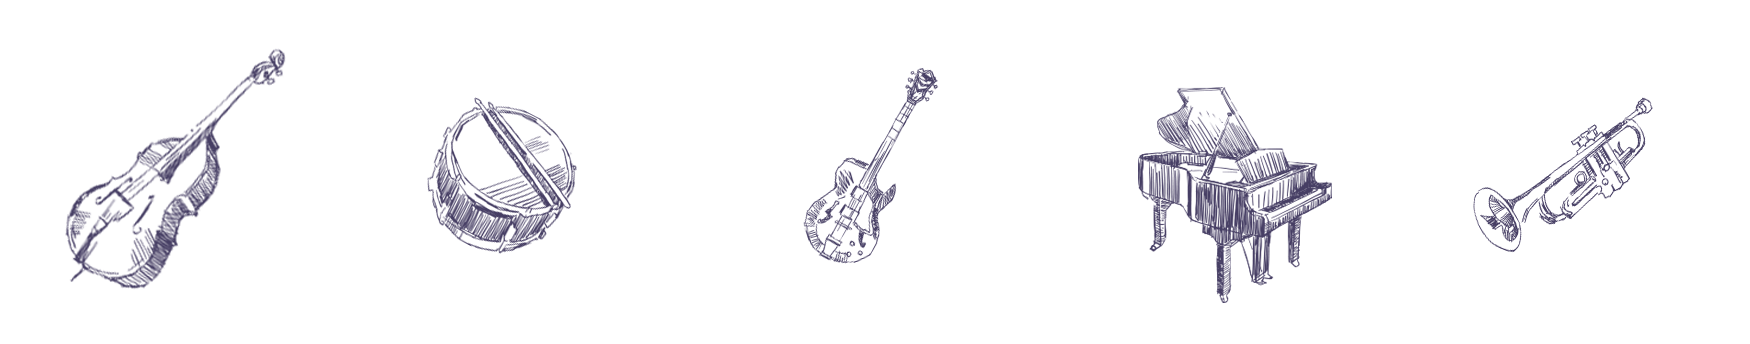
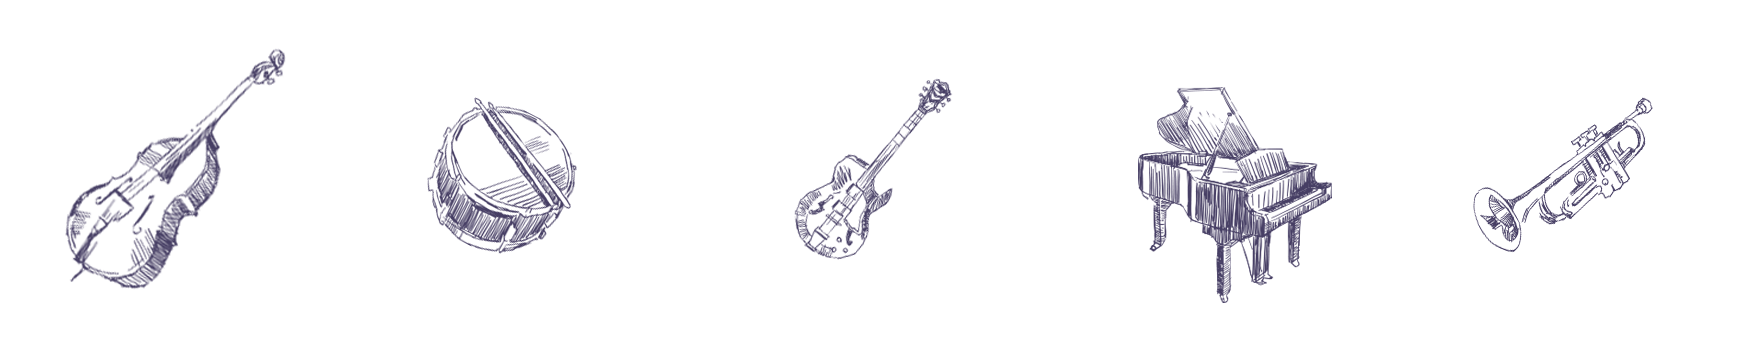
more alpha bug fixes

Changed region(s): [[0.432, 0.2035, 0.5554, 0.7849]]

diff --git a/app/css/application.css b/app/css/application.css
@@ -2448,7 +2448,7 @@ body {
   -ms-transform: translateX(-50%);
   transform: translateX(-50%);
   top: 30%;
-  background: rgba(0, 0, 0, 0.5);
+  background: rgba(0, 0, 0, 0.6);
   -moz-border-radius: 20px;
   -webkit-border-radius: 20px;
   border-radius: 20px;
@@ -2796,6 +2796,8 @@ body {
     right: 50px;
     top: 100px;
     position: absolute; }
+  #cr-mediaplans-s3.hat-rack-C .reveal-items-buttons-container {
+    background: url(../assets/images/102/pt-044/hat-rack-C.png) no-repeat; }
   #cr-mediaplans-s3 .reveal-item {
     cursor: pointer;
     position: absolute;
@@ -3749,13 +3751,13 @@ body {
     #hs-049-view .details-container .detail-set .detail-info-button {
       position: absolute;
       background: url(../assets/images/103/hotspots-049/detail-info-button.png);
-      width: 35px;
-      height: 35px;
+      width: 40px;
+      height: 40px;
       cursor: pointer; }
       #hs-049-view .details-container .detail-set .detail-info-button:hover {
-        background-position: 0px -35px; }
+        background-position: 0px -40px; }
       #hs-049-view .details-container .detail-set .detail-info-button.completed, #hs-049-view .details-container .detail-set .detail-info-button.selected {
-        background-position: 0px -70px; }
+        background-position: 0px -80px; }
   #hs-049-view .details-container .detail-highlight {
     position: absolute;
     background: rgba(255, 255, 0, 0.5);
@@ -3783,51 +3785,7 @@ body {
     #hs-049-view .details-container .tooltip.visible .close-x-light-button {
       display: block; }
   #hs-049-view .details-container .back-button {
-    position: absolute;
-    font-size: 1.6em;
-    font-family: "Avenir", sans-serif;
-    line-height: 120%;
-    padding: 5px 10px;
-    margin: 0px;
-    font-weight: 500;
-    background: #57a0c4;
-    /* Old browsers */
-    background: -moz-linear-gradient(top, #57a0c4 0%, #5195b7 100%);
-    /* FF3.6+ */
-    background: -webkit-gradient(linear, left top, left bottom, color-stop(0%, #57a0c4), color-stop(100%, #5195b7));
-    /* Chrome,Safari4+ */
-    background: -webkit-linear-gradient(top, #57a0c4 0%, #5195b7 100%);
-    /* Chrome10+,Safari5.1+ */
-    background: -o-linear-gradient(top, #57a0c4 0%, #5195b7 100%);
-    /* Opera 11.10+ */
-    background: -ms-linear-gradient(top, #57a0c4 0%, #5195b7 100%);
-    /* IE10+ */
-    background: linear-gradient(to bottom, #57a0c4 0%, #5195b7 100%);
-    /* W3C */
-    -moz-border-radius: 6px;
-    -webkit-border-radius: 6px;
-    border-radius: 6px;
-    border: 1px solid #333;
-    color: white;
-    cursor: pointer;
-    bottom: 25px;
-    right: 25px;
-    margin: 0 2px; }
-    #hs-049-view .details-container .back-button:hover {
-      background: #3c87ac;
-      /* Old browsers */
-      background: -moz-linear-gradient(top, #3c87ac 0%, #3e7997 100%);
-      /* FF3.6+ */
-      background: -webkit-gradient(linear, left top, left bottom, color-stop(0%, #3c87ac), color-stop(100%, #3e7997));
-      /* Chrome,Safari4+ */
-      background: -webkit-linear-gradient(top, #3c87ac 0%, #3e7997 100%);
-      /* Chrome10+,Safari5.1+ */
-      background: -o-linear-gradient(top, #3c87ac 0%, #3e7997 100%);
-      /* Opera 11.10+ */
-      background: -ms-linear-gradient(top, #3c87ac 0%, #3e7997 100%);
-      /* IE10+ */
-      background: linear-gradient(to bottom, #3c87ac 0%, #3e7997 100%);
-      /* W3C */ }
+    min-width: 80px; }
 
 #match-050-view .submit-button {
   width: 230px; }

diff --git a/app/js/ui/pageturner_textbox.js b/app/js/ui/pageturner_textbox.js
@@ -36,14 +36,18 @@ define( ["marionette", "text!templates/ui/pageturner_textbox.html"], function (M
             var enter_down = new TimelineMax({onComplete:this.onTweenComplete, onCompleteScope:this, onCompleteParams:['enter_down']});
 
             enter_down.add(TweenMax.set(this.ui.textbox, {
-                background: 'rgba(0,0,0,0)'
+                background: 'rgba(0,0,0,0.0)'
             }));
 
-            enter_down.add(TweenMax.from(this.ui.body, 0.5, {
-                autoAlpha: 0.0,
-                top: '+=40',
-                ease: Power3.easeIn
-            }));
+            enter_down.add([TweenMax.from(this.ui.body, 0.5, {
+                    autoAlpha: 0.0,
+                    top: '+=40',
+                    ease: Power3.easeIn
+                }),
+                TweenMax.to(this.ui.textbox, 0.4, {
+                    background: 'rgba(0,0,0,0.6)'
+                })]
+            );
 
             /*enter_down.add(TweenMax.from(this.ui.ornament, 0.38, {
                 left: '700px',
@@ -62,9 +66,9 @@ define( ["marionette", "text!templates/ui/pageturner_textbox.html"], function (M
                 autoAlpha: 0.0
             }), '-=.2');
 
-            enter_down.add(TweenMax.to(this.ui.textbox, 1.0, {
-                background: 'rgba(0,0,0,0.5)'
-            }));
+            /*enter_down.add(TweenMax.to(this.ui.textbox, 0.4, {
+                background: 'rgba(0,0,0,0.6)'
+            }));*/
 
             tl.add(enter_down, 'enter_down');
 
@@ -87,12 +91,13 @@ define( ["marionette", "text!templates/ui/pageturner_textbox.html"], function (M
             enter_up.add(TweenMax.to(this.ui.textbox, 0.5, {
                 top: '+=50px',
                 autoAlpha: 1.0,
+                background: 'rgba(0,0,0,0.6)',
                 ease:Power1.easeOut
             }));
 
-            enter_up.add(TweenMax.to(this.ui.textbox, 1.0, {
-                background: 'rgba(0,0,0,0.5)'
-            }));
+            /*enter_up.add(TweenMax.to(this.ui.textbox, 0.4, {
+                background: 'rgba(0,0,0,0.6)'
+            }));*/
 
             tl.add(enter_up, 'enter_up');
 

diff --git a/app/scss/interactions/_hotspots-049.scss b/app/scss/interactions/_hotspots-049.scss
@@ -132,15 +132,15 @@
       & .detail-info-button {
         position: absolute;
         background: url(../assets/images/103/hotspots-049/detail-info-button.png);
-        width: 35px;
-        height: 35px;
+        width: 40px;
+        height: 40px;
         cursor: pointer;
         &:hover {
-          background-position: 0px -35px;
+          background-position: 0px -40px;
         }
 
         &.completed, &.selected {
-          background-position: 0px -70px;
+          background-position: 0px -80px;
         }
       }
     }
@@ -186,24 +186,7 @@
     }
 
     & .back-button {
-      position: absolute;
-      font-size: 1.6em;
-      font-family: $font-body;
-      line-height:120%;
-      padding: 5px 10px;
-      margin: 0px;
-      font-weight: 500;
-      @include gradient(#57a0c4, #5195b7);
-      @include border-radius(6px);
-      border: 1px solid #333;
-      color: white;
-      cursor: pointer;
-      bottom: 25px;
-      right: 25px;
-      margin: 0 2px;
-      &:hover {
-        @include gradient(darken(#57a0c4, 10%), darken(#5195b7, 10%));
-      }
+      min-width: 80px;
     }
   }
 }

diff --git a/app/js/interactions/page_turner/mainview.js b/app/js/interactions/page_turner/mainview.js
@@ -466,6 +466,8 @@ define(["marionette", "app/vent", "text!templates/interactions/page_turner/mainv
                 this.currentInteraction = this.interactions[name].interaction;
                 if (this.currentInteraction.isComplete()) {
                     this.enableScroll();
+                } else {
+                    TweenMax.delayedCall(0.5, this.updateNextPrev, [false, true], this)
                 }
             }
 
@@ -476,7 +478,7 @@ define(["marionette", "app/vent", "text!templates/interactions/page_turner/mainv
             this.goToNext();
         },
 
-        updateNextPrev: function (enabled) {
+        updateNextPrev: function (enabled, disableNext) {
             var newIndex;
             if (enabled) {
 
@@ -498,6 +500,10 @@ define(["marionette", "app/vent", "text!templates/interactions/page_turner/mainv
                 }
 
 
+            } else if (!enabled && disableNext) {
+                //disable next
+                this.ui.nextButton.addClass('disabled');
+                this.ui.prevButton.removeClass('disabled');
             } else {
                 this.ui.nextButton.addClass('disabled');
                 this.ui.prevButton.addClass('disabled');

diff --git a/app/scss/interactions/_pageturner-mediaplans-44.scss b/app/scss/interactions/_pageturner-mediaplans-44.scss
@@ -16,11 +16,16 @@
 
   & .reveal-items-buttons-container {
     background: url(../assets/images/102/pt-044/hat-rack.png) no-repeat;
+
     height: 1000px;
     width: 385px;
     right: 50px;
     top: 100px;
     position: absolute;
+  }
+
+  &.hat-rack-C .reveal-items-buttons-container {
+    background: url(../assets/images/102/pt-044/hat-rack-C.png) no-repeat;
   }
 
   & .reveal-item {

diff --git a/app/js/interactions/page_turner/min/mainview-min.js b/app/js/interactions/page_turner/min/mainview-min.js
@@ -1,1 +1,1 @@
-define(["marionette","app/vent","text!templates/interactions/page_turner/mainview.html","ui/pageturner_textbox"],function(e,t,i,n){return e.ItemView.extend({template:i,ui:{container:"#pt-container",contentContainer:"#pt-content-container",mainView:"#pt-main-view",colorOverlay:"#pt-color-overlay",progressButton:".pt-progress-button",nextButton:"#pt-progress-next-button",prevButton:"#pt-progress-prev-button",continueButton:".continue-button",scrollBox:".pt-scroll",revealItems:".reveal-item"},events:{"click @ui.progressButton.enabled.groupEnabled":"onProgressClicked","click @ui.revealItems":"onRevealItemClicked","click @ui.continueButton":"onButtonClicked","click @ui.nextButton":"onNextButtonClicked","click @ui.prevButton":"onPrevButtonClicked"},index:0,scene_ar:[],tweens:{},tweenList:[],currentInteraction:null,tweenOffset:0,scrollTop:0,minScroll:10,scrollDirection:1,scrollEnabled:!1,$textBox:null,textCallbackEnabled:!1,$win:null,$body:null,lastScrollTop:0,initialize:function(e){this.model=e.model,this.interactions=e.interactions,this.soundPlayer=e.soundPlayer,this.tweens={},this.scrollTop=0,this.index=0,this.tweenOffset=.5,this.scrollDirection=1,this.scrollEnabled=!1,this.loopPlaying=!0,this.intervalID},onRender:function(){trace("Pageturner: onRender()",0),this.scene_ar=_.pluck(this.model.get("scenes"),"id"),this.$el.hide(),this.constructPage(),this.$win=$(window),this.$body=$("body"),this.$body.css("overflow","visible"),this.$win.on("resize",$.proxy(this.onResize,this)),1==this.scene_ar.length&&this.$(".pt-progress-container").hide(),this.ui.continueButton.hide()},constructPage:function(){var e=this.model.get("elements"),t,i=this.model.get("scenes"),s,o,r,l,a,c,h,d=!1;this.$textBox=new n({completeCallback:this.onTextTweenComplete,callbackScope:this}),this.ui.contentContainer.append(this.$textBox.render().el),_.each(e,function(e,i){t=$(e.el),t.attr("id",e.id),t.attr("class","pt-element "+e["class"]),TweenMax.set(t,e.props),void 0!=e.prepareLine&&TweenMax.to(t.find(e.prepareLine),0,{drawSVG:0}),this.ui.contentContainer.append(t)}.bind(this)),_.each(i,function(e,t){if(void 0!=e.interaction){var i=e.interaction.name,n=this.interactions[i].template,s=new Backbone.Model(e.interaction),o=this.interactions[i].module,r=this.$("#"+e.interaction.id),l;l=new o({template:n,model:s,soundPlayer:this.soundPlayer}),this.interactions[i].interaction=l,this.listenTo(l,"reveal-item:clicked",this.onRevealItemClicked),r.append(l.render().el)}}.bind(this)),setTimeout(function(){_.each(i,function(e){if(this.tweens[e.id]={complete:!1},void 0!=e.enter){for(h=0,d=!1,a=e.id+"_enter",s=new TimelineMax({paused:!0,onComplete:this.onEnterComplete,onCompleteParams:["enterComplete..."+a],onCompleteScope:this,onReverseComplete:this.onLeaveComplete,onReverseCompleteParams:["reverseLeaveComplete..."+a],onReverseCompleteScope:this}),c=0;c<e.enter.length;c++)r=e.enter[c],r.ease=void 0!=r.ease?EaseLookup.find(r.ease):Power2.easeIn,r.duration=void 0!=r.duration?r.duration:.3,l=void 0==r.staggerOffset?TweenMax[r.type]("#"+r.id,r.duration,r.props):TweenMax[r.type]("#"+r.id,r.duration,r.props,r.staggerOffset),s.add(l,r.startTime+this.tweenOffset),h+=r.duration,void 0!=r.props.repeat&&r.props.repeat>1&&(d=!0);d&&(trace("tlDuration: "+h,2),s.onComplete=null,s.addCallback(this.onEnterComplete,h,["enterCompleteTIMED..."+a],this)),s.totalDuration()>0&&(this.tweens[e.id].enter=s,this.tweenList.push(s))}if(void 0!=e.leave){for(d=!1,h=0,a=e.id+"_leave",o=new TimelineMax({paused:!0,onComplete:this.onLeaveComplete,onCompleteParams:["leaveComplete..."+a],onCompleteScope:this,onReverseComplete:this.onEnterComplete,onReverseCompleteParams:["reverseEnterComplete..."+a],onReverseCompleteScope:this}),c=0;c<e.leave.length;c++)r=e.leave[c],r.ease=void 0!=r.ease?EaseLookup.find(r.ease):Power2.easeIn,r.duration=void 0!=r.duration?r.duration:.3,l=void 0==r.staggerOffset?TweenMax[r.type]("#"+r.id,r.duration,r.props):TweenMax[r.type]("#"+r.id,r.duration,r.props,r.staggerOffset),o.add(l,r.startTime),h+=r.duration,void 0!=r.props.repeat&&r.props.repeat>1&&(d=!0);d&&(o.onComplete=null,o.addCallback(this.onLeaveComplete,h,["leaveCompleteTIMED..."+a],this)),o.totalDuration()>0&&(this.tweens[e.id].leave=o,this.tweenList.push(o))}}.bind(this));var e=this.$win.height(),t=e*(i.length+1);this.ui.scrollBox.height(t+e),this.ui.contentContainer.append(this.ui.continueButton),this.$el.fadeIn(200,function(){this.startInteraction(0)}.bind(this))}.bind(this),100)},startInteraction:function(e){this.index=e,this.scrollDirection=1,this.scrollEnabled=!1,this.renderScene("enter"),1==this.scene_ar.length&&this.buttonEnable(this.ui.continueButton,!0),this.lastScrollTop=0,this.ui.prevButton.addClass("disabled"),this.intervalID=setInterval(function(){clearInterval(this.intervalID),this.loopPlaying=!1,this.trigger("mainview:activity-start")}.bind(this),5e3)},detectDirection:function(){var e=window.pageYOffset,t,i;return i=Math.abs(e-this.lastScrollTop),trace("scrollDistance: "+i,5),i<this.minScroll?0:(t=e>this.lastScrollTop?1:-1,this.lastScrollTop=e,t)},onResize:function(){var e=this.$win.height()*this.index*-1;this.ui.scrollBox.css({top:e})},enableScroll:function(){if(!this.scrollEnabled){this.scrollEnabled=!0,this.$win.on("scroll",$.proxy(this.bodyScroll,this));var e=this.$win.height()*this.index*-1;this.ui.scrollBox.css({top:e}),this.$body.css("overflow","visible");try{this.ui.progressButton.addClass("groupEnabled")}catch(t){this.$(this.ui.progressButton).addClass("groupEnabled")}this.updateNextPrev(!0),trace("enableScroll",2)}},disableScroll:function(){if(this.scrollEnabled){this.scrollEnabled=!1,this.$win.off("scroll",$.proxy(this.bodyScroll,this)),this.$body.css("overflow","hidden");try{this.ui.progressButton.removeClass("groupEnabled")}catch(e){this.$(this.ui.progressButton).removeClass("groupEnabled")}this.updateNextPrev(!1),trace("disableScroll",2)}},renderScene:function(e){var t=this.scene_ar[this.index],i="",n=this.tweens[t],s=this.model.get("scenes")[this.index],o=s.bg_color,r=s.text["class"]||"align-left",l=s.text.css||null;if(TweenMax.to(this.ui.colorOverlay,.5,{delay:.2,backgroundColor:o,ease:Linear.easeNone}),"enter"===e){try{this.ui.progressButton.removeClass("active").addClass("enabled")}catch(a){this.$(this.ui.progressButton).removeClass("active").addClass("enabled")}this.$("#progress"+this.index).addClass("completed active").removeClass("enabled"),this.$textBox.setText(s.text),this.$textBox.setClass(r),this.scrollDirection>0?(this.$textBox.tl.play("enter_down"),void 0!=n.enter?(n.enter.restart(),trace("enter_down_normal",4)):this.textCallbackEnabled=!0):(this.$textBox.tl.play("enter_up"),void 0!=s.enter_up&&"reverse"==s.enter_up?void 0!=n.leave&&(trace("enter_up_reverse (reverse leave tween)",4),n.leave.reverse(n.leave.duration())):void 0!=s.enter?(trace("enter_up_normal (restart enter tween)",4),trace(TweenMax.getTweensOf(n.enter),4),n.enter.restart()):this.textCallbackEnabled=!0)}else void 0!=n.enter&&n.enter.isActive()&&(n.enter.stop(),trace("Killed the bugger!",4)),this.scrollDirection>0?(this.$textBox.tl.play("leave_down"),void 0!=n.leave?(n.leave.restart(),trace("leave_down_normal",4)):this.textCallbackEnabled=!0):(this.$textBox.tl.play("leave_up"),void 0!=s.leave_up&&"reverse"==s.leave_up?void 0!=n.enter&&(trace("leave_up_reversed (reverse enter tween)",4),n.enter.reverse(n.enter.duration())):void 0!=s.leave?(trace("leave_up_normal (restart leave tween)",4),n.leave.restart()):this.textCallbackEnabled=!0)},onTextTweenComplete:function(e){trace("onTextTweenComplete: "+e,2),this.textCallbackEnabled&&(this.textCallbackEnabled=!1,trace("Funky Going On",4),"enter_down"===e||"enter_up"===e?this.onEnterComplete():this.onLeaveComplete())},onEnterComplete:function(e){trace("ON ENTER COMPLETE -> "+e,2);var t=this.scene_ar[this.index],i="",n=this.tweens[t],s=this.model.get("scenes")[this.index];if(n.complete=!0,void 0==s.interaction)TweenMax.delayedCall(.5,this.enableScroll,[],this);else{var o=s.interaction.name;this.currentInteraction=this.interactions[o].interaction,this.currentInteraction.isComplete()&&this.enableScroll()}},onLeaveComplete:function(e){trace("ON LEAVE COMPLETE -> "+e,2),this.goToNext()},updateNextPrev:function(e){var t;e?(t=this.index+this.scrollDirection,0>t?(this.ui.nextButton.removeClass("disabled"),this.ui.prevButton.addClass("disabled")):t==this.scene_ar.length?(this.ui.nextButton.addClass("disabled"),this.ui.prevButton.removeClass("disabled")):(this.ui.nextButton.removeClass("disabled"),this.ui.prevButton.removeClass("disabled"))):(this.ui.nextButton.addClass("disabled"),this.ui.prevButton.addClass("disabled"))},onNextButtonClicked:function(){this.scrollDirection=1,this.prerenderScene(this.index+1),t.trigger("play_sfx","pageturnerbutton_click")},onPrevButtonClicked:function(){this.scrollDirection=-1,this.prerenderScene(this.index-1),t.trigger("play_sfx","pageturnerbutton_click")},bodyScroll:function(){var e,t=this.detectDirection();0!=t&&(this.scrollDirection=t,e=this.index+this.scrollDirection,this.prerenderScene(e))},prerenderScene:function(e){return 0>e?void this.enableScroll():e>this.scene_ar.length-1?void this.enableScroll():(e==this.scene_ar.length-1?(nextScene=this.model.get("scenes")[e],void 0==nextScene.interaction&&(this.ui.continueButton.show(),this.buttonEnable(this.ui.continueButton,!0))):this.ui.continueButton.fadeOut(),this.currentInteraction&&(this.currentInteraction.sceneComplete(),this.currentInteraction=null),this.disableScroll(),this.renderScene("leave"),void(this.loopPlaying&&(clearInterval(this.intervalID),this.trigger("mainview:activity-start"))))},buttonEnable:function(e,t){t?(e.show(),e.addClass("enabled button-reveal").removeClass("disabled"),setTimeout(function(){e.removeClass("button-reveal")}.bind(this),1600)):e.removeClass("enabled").addClass("disabled")},goToNext:function(){var e=this.index+this.scrollDirection;return 0>e||e>this.scene_ar.length-1?void this.enableScroll():(this.index=e,t.trigger("update-jira",{item:"scene: "+this.index}),void this.goTo(this.index))},goTo:function(e){var t=this.$win.height()*this.index*-1;this.ui.scrollBox.css({top:t}),this.disableScroll(),this.$("#progress"+this.index).addClass("completed active"),this.renderScene("enter")},onProgressClicked:function(e){var i=$(e.currentTarget),n=parseInt(i.attr("data-id"));this.scrollDirection=n>this.index?1:-1,this.renderScene("leave"),this.index=n-this.scrollDirection,n==this.scene_ar.length-1&&this.ui.continueButton.fadeIn(),t.trigger("play_sfx","pageturnerbutton_click")},onRevealItemClicked:function(){this.currentInteraction.isComplete()&&(this.index==this.scene_ar.length-1&&this.ui.continueButton.fadeIn(),this.enableScroll())},onButtonClicked:function(e){var i=$(e.currentTarget),n=i.attr("id"),s=i.attr("data-id");switch(s){case"continue":this.showConclusion()}t.trigger("play_sfx","button_click")},showConclusion:function(){this.endInteraction()},endInteraction:function(){this.trigger("mainview:activity-complete")},onDestroy:function(){for(var e=0;e<this.tweenList.length;e++)this.tweenList[e].kill();this.$win.off("scroll",$.proxy(this.bodyScroll,this)),this.$body.css("overflow","visible"),this.$win.off("resize",$.proxy(this.onResize,this)),this.soundPlayer.killCurrentSound(),clearInterval(this.intervalID)}})});
+define(["marionette","app/vent","text!templates/interactions/page_turner/mainview.html","ui/pageturner_textbox"],function(e,t,i,n){return e.ItemView.extend({template:i,ui:{container:"#pt-container",contentContainer:"#pt-content-container",mainView:"#pt-main-view",colorOverlay:"#pt-color-overlay",progressButton:".pt-progress-button",nextButton:"#pt-progress-next-button",prevButton:"#pt-progress-prev-button",continueButton:".continue-button",scrollBox:".pt-scroll",revealItems:".reveal-item"},events:{"click @ui.progressButton.enabled.groupEnabled":"onProgressClicked","click @ui.revealItems":"onRevealItemClicked","click @ui.continueButton":"onButtonClicked","click @ui.nextButton":"onNextButtonClicked","click @ui.prevButton":"onPrevButtonClicked"},index:0,scene_ar:[],tweens:{},tweenList:[],currentInteraction:null,tweenOffset:0,scrollTop:0,minScroll:10,scrollDirection:1,scrollEnabled:!1,$textBox:null,textCallbackEnabled:!1,$win:null,$body:null,lastScrollTop:0,initialize:function(e){this.model=e.model,this.interactions=e.interactions,this.soundPlayer=e.soundPlayer,this.tweens={},this.scrollTop=0,this.index=0,this.tweenOffset=.5,this.scrollDirection=1,this.scrollEnabled=!1,this.loopPlaying=!0,this.intervalID},onRender:function(){trace("Pageturner: onRender()",0),this.scene_ar=_.pluck(this.model.get("scenes"),"id"),this.$el.hide(),this.constructPage(),this.$win=$(window),this.$body=$("body"),this.$body.css("overflow","visible"),this.$win.on("resize",$.proxy(this.onResize,this)),1==this.scene_ar.length&&this.$(".pt-progress-container").hide(),this.ui.continueButton.hide()},constructPage:function(){var e=this.model.get("elements"),t,i=this.model.get("scenes"),s,o,r,l,a,c,d,h=!1;this.$textBox=new n({completeCallback:this.onTextTweenComplete,callbackScope:this}),this.ui.contentContainer.append(this.$textBox.render().el),_.each(e,function(e,i){t=$(e.el),t.attr("id",e.id),t.attr("class","pt-element "+e["class"]),TweenMax.set(t,e.props),void 0!=e.prepareLine&&TweenMax.to(t.find(e.prepareLine),0,{drawSVG:0}),this.ui.contentContainer.append(t)}.bind(this)),_.each(i,function(e,t){if(void 0!=e.interaction){var i=e.interaction.name,n=this.interactions[i].template,s=new Backbone.Model(e.interaction),o=this.interactions[i].module,r=this.$("#"+e.interaction.id),l;l=new o({template:n,model:s,soundPlayer:this.soundPlayer}),this.interactions[i].interaction=l,this.listenTo(l,"reveal-item:clicked",this.onRevealItemClicked),r.append(l.render().el)}}.bind(this)),setTimeout(function(){_.each(i,function(e){if(this.tweens[e.id]={complete:!1},void 0!=e.enter){for(d=0,h=!1,a=e.id+"_enter",s=new TimelineMax({paused:!0,onComplete:this.onEnterComplete,onCompleteParams:["enterComplete..."+a],onCompleteScope:this,onReverseComplete:this.onLeaveComplete,onReverseCompleteParams:["reverseLeaveComplete..."+a],onReverseCompleteScope:this}),c=0;c<e.enter.length;c++)r=e.enter[c],r.ease=void 0!=r.ease?EaseLookup.find(r.ease):Power2.easeIn,r.duration=void 0!=r.duration?r.duration:.3,l=void 0==r.staggerOffset?TweenMax[r.type]("#"+r.id,r.duration,r.props):TweenMax[r.type]("#"+r.id,r.duration,r.props,r.staggerOffset),s.add(l,r.startTime+this.tweenOffset),d+=r.duration,void 0!=r.props.repeat&&r.props.repeat>1&&(h=!0);h&&(trace("tlDuration: "+d,2),s.onComplete=null,s.addCallback(this.onEnterComplete,d,["enterCompleteTIMED..."+a],this)),s.totalDuration()>0&&(this.tweens[e.id].enter=s,this.tweenList.push(s))}if(void 0!=e.leave){for(h=!1,d=0,a=e.id+"_leave",o=new TimelineMax({paused:!0,onComplete:this.onLeaveComplete,onCompleteParams:["leaveComplete..."+a],onCompleteScope:this,onReverseComplete:this.onEnterComplete,onReverseCompleteParams:["reverseEnterComplete..."+a],onReverseCompleteScope:this}),c=0;c<e.leave.length;c++)r=e.leave[c],r.ease=void 0!=r.ease?EaseLookup.find(r.ease):Power2.easeIn,r.duration=void 0!=r.duration?r.duration:.3,l=void 0==r.staggerOffset?TweenMax[r.type]("#"+r.id,r.duration,r.props):TweenMax[r.type]("#"+r.id,r.duration,r.props,r.staggerOffset),o.add(l,r.startTime),d+=r.duration,void 0!=r.props.repeat&&r.props.repeat>1&&(h=!0);h&&(o.onComplete=null,o.addCallback(this.onLeaveComplete,d,["leaveCompleteTIMED..."+a],this)),o.totalDuration()>0&&(this.tweens[e.id].leave=o,this.tweenList.push(o))}}.bind(this));var e=this.$win.height(),t=e*(i.length+1);this.ui.scrollBox.height(t+e),this.ui.contentContainer.append(this.ui.continueButton),this.$el.fadeIn(200,function(){this.startInteraction(0)}.bind(this))}.bind(this),100)},startInteraction:function(e){this.index=e,this.scrollDirection=1,this.scrollEnabled=!1,this.renderScene("enter"),1==this.scene_ar.length&&this.buttonEnable(this.ui.continueButton,!0),this.lastScrollTop=0,this.ui.prevButton.addClass("disabled"),this.intervalID=setInterval(function(){clearInterval(this.intervalID),this.loopPlaying=!1,this.trigger("mainview:activity-start")}.bind(this),5e3)},detectDirection:function(){var e=window.pageYOffset,t,i;return i=Math.abs(e-this.lastScrollTop),trace("scrollDistance: "+i,5),i<this.minScroll?0:(t=e>this.lastScrollTop?1:-1,this.lastScrollTop=e,t)},onResize:function(){var e=this.$win.height()*this.index*-1;this.ui.scrollBox.css({top:e})},enableScroll:function(){if(!this.scrollEnabled){this.scrollEnabled=!0,this.$win.on("scroll",$.proxy(this.bodyScroll,this));var e=this.$win.height()*this.index*-1;this.ui.scrollBox.css({top:e}),this.$body.css("overflow","visible");try{this.ui.progressButton.addClass("groupEnabled")}catch(t){this.$(this.ui.progressButton).addClass("groupEnabled")}this.updateNextPrev(!0),trace("enableScroll",2)}},disableScroll:function(){if(this.scrollEnabled){this.scrollEnabled=!1,this.$win.off("scroll",$.proxy(this.bodyScroll,this)),this.$body.css("overflow","hidden");try{this.ui.progressButton.removeClass("groupEnabled")}catch(e){this.$(this.ui.progressButton).removeClass("groupEnabled")}this.updateNextPrev(!1),trace("disableScroll",2)}},renderScene:function(e){var t=this.scene_ar[this.index],i="",n=this.tweens[t],s=this.model.get("scenes")[this.index],o=s.bg_color,r=s.text["class"]||"align-left",l=s.text.css||null;if(TweenMax.to(this.ui.colorOverlay,.5,{delay:.2,backgroundColor:o,ease:Linear.easeNone}),"enter"===e){try{this.ui.progressButton.removeClass("active").addClass("enabled")}catch(a){this.$(this.ui.progressButton).removeClass("active").addClass("enabled")}this.$("#progress"+this.index).addClass("completed active").removeClass("enabled"),this.$textBox.setText(s.text),this.$textBox.setClass(r),this.scrollDirection>0?(this.$textBox.tl.play("enter_down"),void 0!=n.enter?(n.enter.restart(),trace("enter_down_normal",4)):this.textCallbackEnabled=!0):(this.$textBox.tl.play("enter_up"),void 0!=s.enter_up&&"reverse"==s.enter_up?void 0!=n.leave&&(trace("enter_up_reverse (reverse leave tween)",4),n.leave.reverse(n.leave.duration())):void 0!=s.enter?(trace("enter_up_normal (restart enter tween)",4),trace(TweenMax.getTweensOf(n.enter),4),n.enter.restart()):this.textCallbackEnabled=!0)}else void 0!=n.enter&&n.enter.isActive()&&(n.enter.stop(),trace("Killed the bugger!",4)),this.scrollDirection>0?(this.$textBox.tl.play("leave_down"),void 0!=n.leave?(n.leave.restart(),trace("leave_down_normal",4)):this.textCallbackEnabled=!0):(this.$textBox.tl.play("leave_up"),void 0!=s.leave_up&&"reverse"==s.leave_up?void 0!=n.enter&&(trace("leave_up_reversed (reverse enter tween)",4),n.enter.reverse(n.enter.duration())):void 0!=s.leave?(trace("leave_up_normal (restart leave tween)",4),n.leave.restart()):this.textCallbackEnabled=!0)},onTextTweenComplete:function(e){trace("onTextTweenComplete: "+e,2),this.textCallbackEnabled&&(this.textCallbackEnabled=!1,trace("Funky Going On",4),"enter_down"===e||"enter_up"===e?this.onEnterComplete():this.onLeaveComplete())},onEnterComplete:function(e){trace("ON ENTER COMPLETE -> "+e,2);var t=this.scene_ar[this.index],i="",n=this.tweens[t],s=this.model.get("scenes")[this.index];if(n.complete=!0,void 0==s.interaction)TweenMax.delayedCall(.5,this.enableScroll,[],this);else{var o=s.interaction.name;this.currentInteraction=this.interactions[o].interaction,this.currentInteraction.isComplete()?this.enableScroll():TweenMax.delayedCall(.5,this.updateNextPrev,[!1,!0],this)}},onLeaveComplete:function(e){trace("ON LEAVE COMPLETE -> "+e,2),this.goToNext()},updateNextPrev:function(e,t){var i;e?(i=this.index+this.scrollDirection,0>i?(this.ui.nextButton.removeClass("disabled"),this.ui.prevButton.addClass("disabled")):i==this.scene_ar.length?(this.ui.nextButton.addClass("disabled"),this.ui.prevButton.removeClass("disabled")):(this.ui.nextButton.removeClass("disabled"),this.ui.prevButton.removeClass("disabled"))):!e&&t?(this.ui.nextButton.addClass("disabled"),this.ui.prevButton.removeClass("disabled")):(this.ui.nextButton.addClass("disabled"),this.ui.prevButton.addClass("disabled"))},onNextButtonClicked:function(){this.scrollDirection=1,this.prerenderScene(this.index+1),t.trigger("play_sfx","pageturnerbutton_click")},onPrevButtonClicked:function(){this.scrollDirection=-1,this.prerenderScene(this.index-1),t.trigger("play_sfx","pageturnerbutton_click")},bodyScroll:function(){var e,t=this.detectDirection();0!=t&&(this.scrollDirection=t,e=this.index+this.scrollDirection,this.prerenderScene(e))},prerenderScene:function(e){return 0>e?void this.enableScroll():e>this.scene_ar.length-1?void this.enableScroll():(e==this.scene_ar.length-1?(nextScene=this.model.get("scenes")[e],void 0==nextScene.interaction&&(this.ui.continueButton.show(),this.buttonEnable(this.ui.continueButton,!0))):this.ui.continueButton.fadeOut(),this.currentInteraction&&(this.currentInteraction.sceneComplete(),this.currentInteraction=null),this.disableScroll(),this.renderScene("leave"),void(this.loopPlaying&&(clearInterval(this.intervalID),this.trigger("mainview:activity-start"))))},buttonEnable:function(e,t){t?(e.show(),e.addClass("enabled button-reveal").removeClass("disabled"),setTimeout(function(){e.removeClass("button-reveal")}.bind(this),1600)):e.removeClass("enabled").addClass("disabled")},goToNext:function(){var e=this.index+this.scrollDirection;return 0>e||e>this.scene_ar.length-1?void this.enableScroll():(this.index=e,t.trigger("update-jira",{item:"scene: "+this.index}),void this.goTo(this.index))},goTo:function(e){var t=this.$win.height()*this.index*-1;this.ui.scrollBox.css({top:t}),this.disableScroll(),this.$("#progress"+this.index).addClass("completed active"),this.renderScene("enter")},onProgressClicked:function(e){var i=$(e.currentTarget),n=parseInt(i.attr("data-id"));this.scrollDirection=n>this.index?1:-1,this.renderScene("leave"),this.index=n-this.scrollDirection,n==this.scene_ar.length-1&&this.ui.continueButton.fadeIn(),t.trigger("play_sfx","pageturnerbutton_click")},onRevealItemClicked:function(){this.currentInteraction.isComplete()&&(this.index==this.scene_ar.length-1&&this.ui.continueButton.fadeIn(),this.enableScroll())},onButtonClicked:function(e){var i=$(e.currentTarget),n=i.attr("id"),s=i.attr("data-id");switch(s){case"continue":this.showConclusion()}t.trigger("play_sfx","button_click")},showConclusion:function(){this.endInteraction()},endInteraction:function(){this.trigger("mainview:activity-complete")},onDestroy:function(){for(var e=0;e<this.tweenList.length;e++)this.tweenList[e].kill();this.$win.off("scroll",$.proxy(this.bodyScroll,this)),this.$body.css("overflow","visible"),this.$win.off("resize",$.proxy(this.onResize,this)),this.soundPlayer.killCurrentSound(),clearInterval(this.intervalID)}})});

diff --git a/app/js/ui/min/pageturner_textbox-min.js b/app/js/ui/min/pageturner_textbox-min.js
@@ -1,1 +1,1 @@
-define(["marionette","text!templates/ui/pageturner_textbox.html"],function(e,t){return e.ItemView.extend({template:t,ui:{textbox:".pt-txt-box",header:".pt-txt-header",hr:".pt-txt-hr",ornament:".pt-txt-ornament",body:".pt-txt-body"},tl:null,initialize:function(e){this.completeCallback=e.completeCallback||null,this.callbackScope=e.callbackScope||null},onRender:function(){this.tl=this.createTimeline()},createTimeline:function(){var e=new TimelineMax({paused:!0}),t=new TimelineMax({onComplete:this.onTweenComplete,onCompleteScope:this,onCompleteParams:["enter_down"]});t.add(TweenMax.set(this.ui.textbox,{background:"rgba(0,0,0,0)"})),t.add(TweenMax.from(this.ui.body,.5,{autoAlpha:0,top:"+=40",ease:Power3.easeIn})),t.add(TweenMax.from(this.ui.header,.5,{rotationX:"-=180deg",autoAlpha:0}),"-=.2"),t.add(TweenMax.to(this.ui.textbox,1,{background:"rgba(0,0,0,0.5)"})),e.add(t,"enter_down");var o=new TimelineMax({onComplete:this.onTweenComplete,onCompleteScope:this,onCompleteParams:["leave_down"]});o.add(TweenMax.to(this.ui.textbox,1,{background:"rgba(0,0,0,0.0)"})),o.add(TweenMax.to(this.ui.textbox,.7,{top:"-=50px",autoAlpha:0})),e.add(o,"leave_down");var a=new TimelineMax({onComplete:this.onTweenComplete,onCompleteScope:this,onCompleteParams:["enter_up"]});a.set(this.ui.textbox,{autoAlpha:0,immediateRender:!1}),a.add(TweenMax.to(this.ui.textbox,.5,{top:"+=50px",autoAlpha:1,ease:Power1.easeOut})),a.add(TweenMax.to(this.ui.textbox,1,{background:"rgba(0,0,0,0.5)"})),e.add(a,"enter_up");var n=new TimelineMax({onComplete:this.onTweenComplete,onCompleteScope:this,onCompleteParams:["leave_up"]});return n.add(TweenMax.to(this.ui.textbox,.3,{top:"+=30px",autoAlpha:0})),e.add(n,"leave_up"),e},onTweenComplete:function(e){this.tl.pause(),null!=this.completeCallback&&this.completeCallback.call(this.callbackScope,e)},setText:function(e){void 0!=e.header&&this.ui.header.html(e.header),void 0!=e.body&&this.ui.body.html(e.body)},setClass:function(e){this.ui.textbox.removeClass().addClass("pt-txt-box "+e)},setCSS:function(e){this.ui.textbox.css(e)}})});
+define(["marionette","text!templates/ui/pageturner_textbox.html"],function(e,t){return e.ItemView.extend({template:t,ui:{textbox:".pt-txt-box",header:".pt-txt-header",hr:".pt-txt-hr",ornament:".pt-txt-ornament",body:".pt-txt-body"},tl:null,initialize:function(e){this.completeCallback=e.completeCallback||null,this.callbackScope=e.callbackScope||null},onRender:function(){this.tl=this.createTimeline()},createTimeline:function(){var e=new TimelineMax({paused:!0}),t=new TimelineMax({onComplete:this.onTweenComplete,onCompleteScope:this,onCompleteParams:["enter_down"]});t.add(TweenMax.set(this.ui.textbox,{background:"rgba(0,0,0,0.0)"})),t.add([TweenMax.from(this.ui.body,.5,{autoAlpha:0,top:"+=40",ease:Power3.easeIn}),TweenMax.to(this.ui.textbox,.4,{background:"rgba(0,0,0,0.6)"})]),t.add(TweenMax.from(this.ui.header,.5,{rotationX:"-=180deg",autoAlpha:0}),"-=.2"),e.add(t,"enter_down");var o=new TimelineMax({onComplete:this.onTweenComplete,onCompleteScope:this,onCompleteParams:["leave_down"]});o.add(TweenMax.to(this.ui.textbox,1,{background:"rgba(0,0,0,0.0)"})),o.add(TweenMax.to(this.ui.textbox,.7,{top:"-=50px",autoAlpha:0})),e.add(o,"leave_down");var a=new TimelineMax({onComplete:this.onTweenComplete,onCompleteScope:this,onCompleteParams:["enter_up"]});a.set(this.ui.textbox,{autoAlpha:0,immediateRender:!1}),a.add(TweenMax.to(this.ui.textbox,.5,{top:"+=50px",autoAlpha:1,background:"rgba(0,0,0,0.6)",ease:Power1.easeOut})),e.add(a,"enter_up");var n=new TimelineMax({onComplete:this.onTweenComplete,onCompleteScope:this,onCompleteParams:["leave_up"]});return n.add(TweenMax.to(this.ui.textbox,.3,{top:"+=30px",autoAlpha:0})),e.add(n,"leave_up"),e},onTweenComplete:function(e){this.tl.pause(),null!=this.completeCallback&&this.completeCallback.call(this.callbackScope,e)},setText:function(e){void 0!=e.header&&this.ui.header.html(e.header),void 0!=e.body&&this.ui.body.html(e.body)},setClass:function(e){this.ui.textbox.removeClass().addClass("pt-txt-box "+e)},setCSS:function(e){this.ui.textbox.css(e)}})});

diff --git a/app/scss/ui/_splash.scss b/app/scss/ui/_splash.scss
@@ -80,7 +80,7 @@
 .splash-text-container {
   @include horizontal-align();
   top: 30%;
-  background: rgba(0,0,0,0.5);
+  background: rgba(0,0,0,0.6);
   @include border-radius(20px);
   padding: 20px 30px;
   box-sizing: border-box;

diff --git a/app/templates/interactions/hotspots/mainview.html b/app/templates/interactions/hotspots/mainview.html
@@ -39,7 +39,7 @@
             <% }); %>
             <div class="tooltip"><div class="close-x-light-button"></div><p class="label"></p><p class="tooltip-body"></p></div>
             <div class="detail-highlight"></div>
-            <div class="back-button enabled" data-id="back">Back</div>
+            <div class="main-dark-button back-button enabled" data-id="back">Back</div>
         </div>
 
 